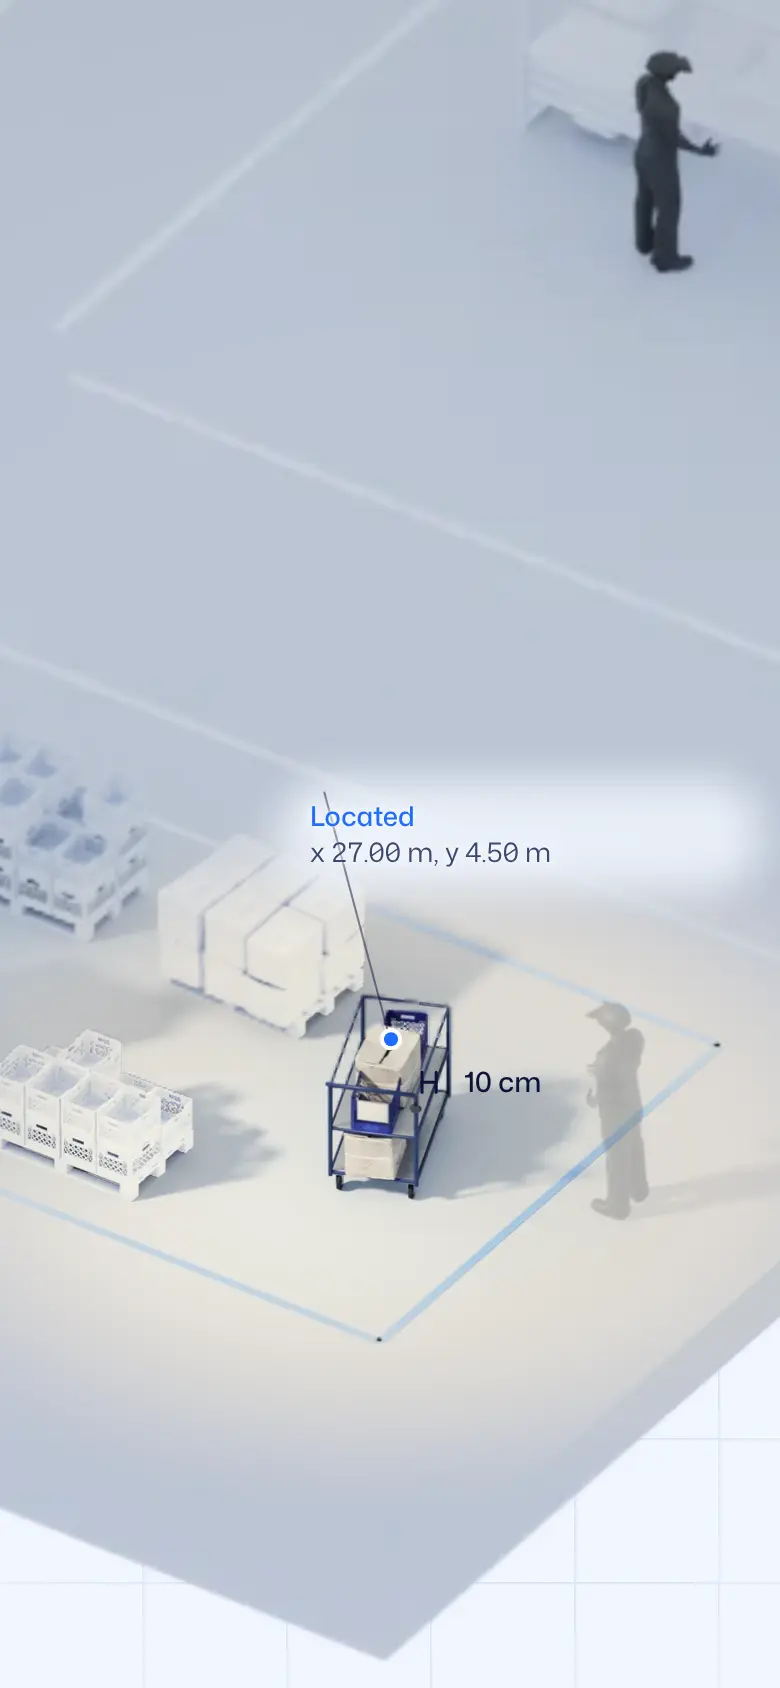
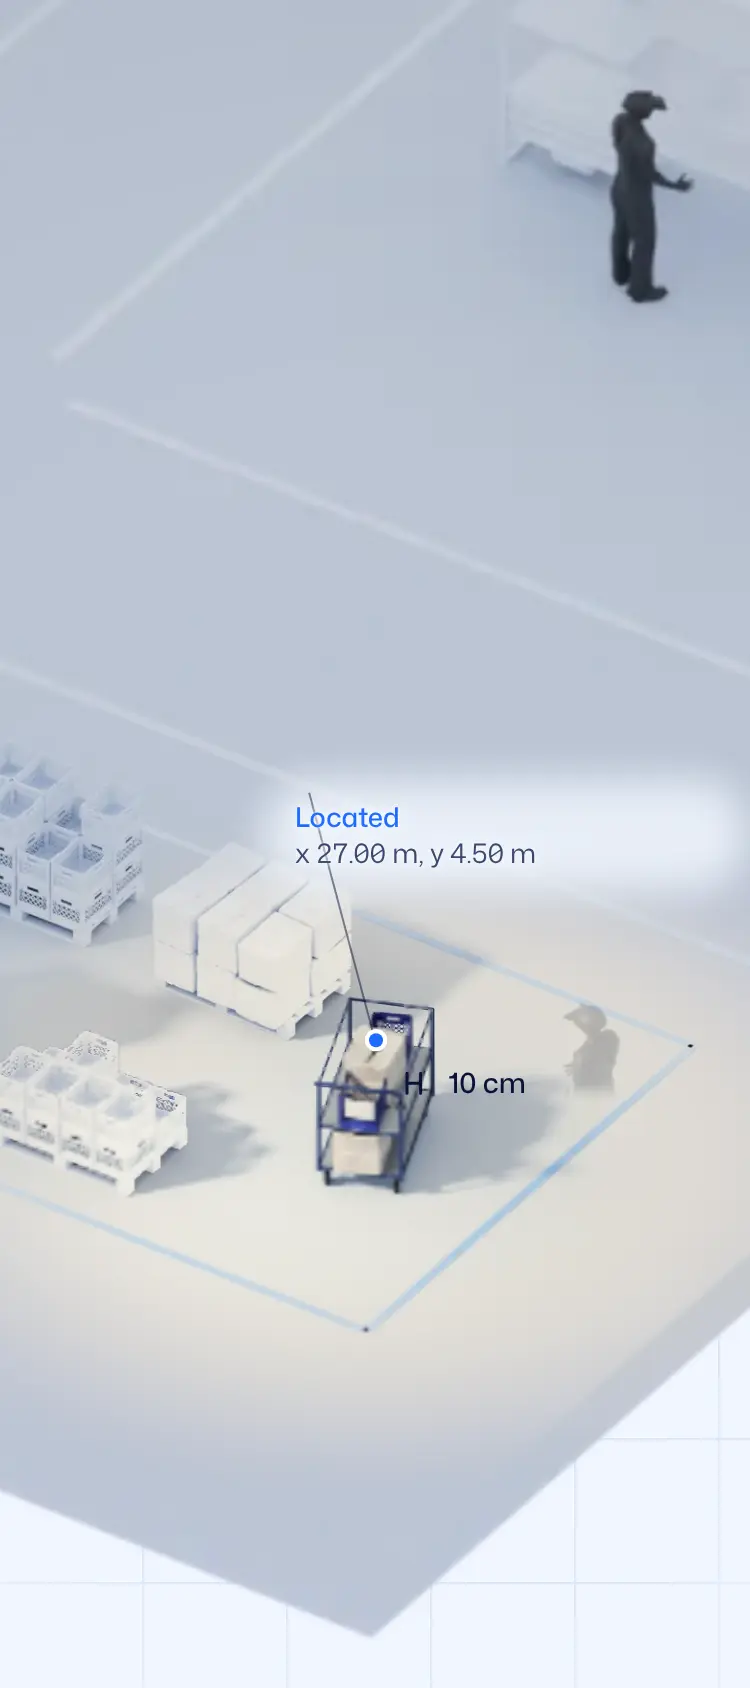
Explainer: a truck that reads from above, and a controlled scroll that never skips a sentence
The docked truck is now a weathered 40 ft container on a skeletal trailer with a cab-over
tractor, standing whole on its own apron; the wide plates are reframed (same pixels per
metre) so it is no longer cut at the edge. Inside the story one wheel turn, swipe or key
glides to the next sentence's resting point and the page holds there; before and after the
story the page scrolls as usual.

Claude-Session: https://claude.ai/code/session_01YEydMJrMXd25Uxd8C1TWVL

diff --git a/studio/v1/js/floor.js b/studio/v1/js/floor.js
@@ -92,7 +92,7 @@
     // During a fast fling (a menu jump, a hard flick) the words step back and return the moment the scroll settles.
     var calm = 1 - seg(Math.abs(textFrame.v || 0), 1.6, 4.5); calm = Math.round(calm * 20) / 20;
     blocks.forEach(function (b, k) {
-      var e = k === 0 ? Math.max(seg(ap, .45, .85), seg(tb, 0, .02)) : seg(tb, k, k + .16), x = k < NB - 1 ? seg(tb, k + .84, k + 1) : 0;
+      var e = k === 0 ? Math.max(seg(ap, .45, .85), seg(tb, 0, .02)) : seg(tb, k, k + .16), x = k < NB - 1 ? seg(tb, k + .9, k + 1) : 0;
       var vis = e > 0 && x < 1, uu = k < i ? 1 : k > i ? 0 : u;
       if (vis !== b.vis) { b.vis = vis; b.el.style.visibility = vis ? 'visible' : 'hidden'; }
       if (!vis) return;
@@ -177,6 +177,56 @@
       e.preventDefault(); var g = +a.getAttribute('data-go'); if (done) { unfold(g); return; } var r = S.getBoundingClientRect(), run = r.height - vh;
       window.scrollTo({ top: window.scrollY + r.top + (EDGE[g] + .012) * run, behavior: 'smooth' });
     });
+  });
+
+  // ---- controlled scroll: inside the story one wheel turn, swipe or key moves exactly one sentence on, at a reading pace.
+  // Each sentence has a resting point where its words, its picture and its sound have all arrived. The page glides there
+  // and holds, so nothing can be skipped or half read. Before the first and after the last resting point the page scrolls as usual.
+  var STOP = [.87, .87, .76, .87, .87, .87, .87, .87, .97], stops = STOP.map(function (v, k) { return EDGE[k] + v * (EDGE[k + 1] - EDGE[k]); });
+  var RM = matchMedia('(prefers-reduced-motion: reduce)').matches, glide = null, lastW = 0, lastA = 0, landT = 0, engaged = false, lastY = window.scrollY;
+  // While the story holds the page, the page itself does not scroll (a long flick from above would otherwise carry straight through it).
+  function lock(on) { if (engaged === on) return; engaged = on; document.documentElement.classList.toggle('flr-lock', on); }
+  function guard() {
+    var y = window.scrollY, dy = y - lastY; lastY = y; if (glide) return; var ok = pinned(), last = stops[stops.length - 1];
+    if (!ok) { lock(false); return; }
+    if (!engaged && dy > 0 && p < stops[0]) { lock(true); glideTo(stops[0]); } else if (!engaged && dy < 0 && p > last + .0015) { lock(true); glideTo(last); }
+  }
+  function pinned() { if (done || SHOT || RM || !S.classList.contains('flr-on')) return false; var r = S.getBoundingClientRect(); return r.top <= 2 && r.bottom >= vh - 2; }
+  function nextStop(dir) {
+    var k;
+    if (dir > 0) { for (k = 0; k < stops.length; k++) if (stops[k] > p + .0015) return stops[k]; return null; }
+    for (k = stops.length - 1; k >= 0; k--) if (stops[k] < p - .0015) return stops[k];
+    return p > .0015 ? 0 : null;
+  }
+  function glideTo(pt) {
+    var r = S.getBoundingClientRect(), run = r.height - vh, y0 = window.scrollY, y1 = Math.round(window.scrollY + r.top + pt * run);
+    var d = 1000 * Math.min(2.1, Math.max(1.05, .8 + Math.abs(tbOf(pt) - tbOf(p)) * .85)), t0 = performance.now(), g = glide = {};
+    (function step(now) {
+      if (glide !== g) return; var k = Math.min(1, (now - t0) / d), e = k < .5 ? 4 * k * k * k : 1 - Math.pow(-2 * k + 2, 3) / 2;
+      window.scrollTo({ top: y0 + (y1 - y0) * e, behavior: 'instant' }); if (k < 1) requestAnimationFrame(step); else { glide = null; landT = performance.now(); }
+    })(t0);
+  }
+  function intent(dir, ev) { var t = nextStop(dir); if (t === null) { lock(false); return false; } lock(true); if (ev) ev.preventDefault(); if (!glide) glideTo(t); return true; }
+  window.addEventListener('wheel', function (e) {
+    if (e.ctrlKey || !pinned()) { lastW = 0; return; }
+    var dy = e.deltaY * (e.deltaMode === 1 ? 16 : e.deltaMode === 2 ? vh : 1), a = Math.abs(dy), now = performance.now(); if (a < 1) return;
+    // a new turn of the wheel, not the tail of the last flick: a pause, or a push harder than the dying tail
+    var fresh = (now - lastW > 200 && a >= 10) || a > lastA * 1.5 + 6; lastW = now; lastA = a; var dir = dy > 0 ? 1 : -1;
+    if (glide || !fresh || now - landT < 140) { if (glide || (engaged && nextStop(dir) !== null)) e.preventDefault(); return; }
+    intent(dir, e);
+  }, { passive: false });
+  var ty = null, tGo = false;
+  window.addEventListener('touchstart', function (e) { ty = e.touches.length === 1 ? e.touches[0].clientY : null; tGo = false; }, { passive: true });
+  window.addEventListener('touchmove', function (e) {
+    if (ty === null || !pinned()) return; var d = ty - e.touches[0].clientY, dir = d > 0 ? 1 : -1;
+    if (glide || tGo) { e.preventDefault(); return; }
+    if (nextStop(dir) === null) return; e.preventDefault();
+    if (Math.abs(d) > 18) { tGo = true; intent(dir); }
+  }, { passive: false });
+  window.addEventListener('keydown', function (e) {
+    if (!pinned() || e.altKey || e.ctrlKey || e.metaKey || /^(INPUT|TEXTAREA|SELECT)$/.test((e.target || {}).tagName || '')) return;
+    var dir = { ArrowDown: 1, PageDown: 1, ' ': e.shiftKey ? -1 : 1, ArrowUp: -1, PageUp: -1 }[e.key]; if (!dir) return;
+    if (glide) { e.preventDefault(); return; } intent(dir, e);
   });
 
   var reB = S.querySelector('.flr-re'); if (reB) reB.addEventListener('click', function () { unfold(0); });
@@ -668,7 +718,7 @@
     kick();
   }
   function kick() { if (!raf && (onScreen || SHOT)) raf = requestAnimationFrame(tick); }
-  function onScroll() { readScroll(); if (near) start(); if (bi < 0) setBeat(beatOf(p)); kick(); }
+  function onScroll() { readScroll(); guard(); if (near) start(); if (bi < 0) setBeat(beatOf(p)); kick(); }
   window.addEventListener('scroll', onScroll, { passive: true });
   window.addEventListener('resize', function () { measure(); onScroll(); });
   document.addEventListener('visibilitychange', function () { snd.gate(); kick(); });

diff --git a/studio/v1/css/floor.css b/studio/v1/css/floor.css
@@ -178,3 +178,5 @@
 @media (max-aspect-ratio:4/5){.flr-on .flr-card{left:50%;top:64%}.flr-on .flr-dim{background:linear-gradient(180deg,rgba(6,10,30,0) 30%,rgba(6,10,30,.74) 54%)}}
 @media (prefers-reduced-motion:reduce){.flr-on .flr-card.go{animation:none}}
 .flr-shot .flr-card{display:none!important}
+
+html.flr-lock{overflow:hidden}html:has(.flr-on){scrollbar-gutter:stable}

diff --git a/extras/explainer-floor/blender/truck2.py b/extras/explainer-floor/blender/truck2.py
@@ -1,0 +1,75 @@
+# The truck at the dock, built to read from above: a 40 ft container on a skeletal trailer, coupled to a cab-over tractor.
+# Container x 0 .. -12.19 (its doors face the dock), tractor to about -16.6. Corrugation runs across the length, as on a real box.
+import bpy, math
+import plant as P
+rad = math.radians
+
+def corrugated(name, base, grime=(.42, .45, .5, 1)):
+    m = bpy.data.materials.get(name)
+    if m: return m
+    m = bpy.data.materials.new(name); m.use_nodes = True; nt = m.node_tree; N = nt.nodes; L = nt.links; b = N['Principled BSDF']
+    tc = N.new('ShaderNodeTexCoord')
+    wv = N.new('ShaderNodeTexWave'); wv.wave_type = 'BANDS'; wv.bands_direction = 'X'; wv.wave_profile = 'SIN'; wv.inputs['Scale'].default_value = 1.12
+    L.new(tc.outputs['Object'], wv.inputs['Vector'])
+    bp = N.new('ShaderNodeBump'); bp.inputs['Strength'].default_value = .55; bp.inputs['Distance'].default_value = .03; L.new(wv.outputs['Fac'], bp.inputs['Height'])
+    # weather: large soft grime, finer streaks running down the sides, a darker band where the roof collects dirt
+    n1 = N.new('ShaderNodeTexNoise'); n1.inputs['Scale'].default_value = .7; n1.inputs['Detail'].default_value = 7; n1.inputs['Roughness'].default_value = .62; L.new(tc.outputs['Object'], n1.inputs['Vector'])
+    mp = N.new('ShaderNodeMapping'); mp.inputs['Scale'].default_value = (6, 6, .35); L.new(tc.outputs['Object'], mp.inputs['Vector'])
+    n2 = N.new('ShaderNodeTexNoise'); n2.inputs['Scale'].default_value = 3; n2.inputs['Detail'].default_value = 4; L.new(mp.outputs['Vector'], n2.inputs['Vector'])
+    g1 = N.new('ShaderNodeMapRange'); g1.inputs['From Min'].default_value = .42; g1.inputs['From Max'].default_value = .72; L.new(n1.outputs['Fac'], g1.inputs['Value'])
+    g2 = N.new('ShaderNodeMapRange'); g2.inputs['From Min'].default_value = .5; g2.inputs['From Max'].default_value = .8; g2.inputs['To Max'].default_value = .55; L.new(n2.outputs['Fac'], g2.inputs['Value'])
+    gs = N.new('ShaderNodeMath'); gs.operation = 'ADD'; gs.use_clamp = True; L.new(g1.outputs['Result'], gs.inputs[0]); L.new(g2.outputs['Result'], gs.inputs[1])
+    gk = N.new('ShaderNodeMath'); gk.operation = 'MULTIPLY'; gk.inputs[1].default_value = .55; L.new(gs.outputs[0], gk.inputs[0])
+    cm = N.new('ShaderNodeMix'); cm.data_type = 'RGBA'; cm.inputs[6].default_value = base; cm.inputs[7].default_value = grime; L.new(gk.outputs[0], cm.inputs['Factor'])
+    # the crests of the corrugation catch a little less dirt
+    cw = N.new('ShaderNodeMix'); cw.data_type = 'RGBA'; cw.blend_type = 'MULTIPLY'; cw.inputs['Factor'].default_value = .1; L.new(cm.outputs[2], cw.inputs[6]); L.new(wv.outputs['Color'], cw.inputs[7])
+    L.new(cw.outputs[2], b.inputs['Base Color'])
+    rr = N.new('ShaderNodeMapRange'); rr.inputs['To Min'].default_value = .38; rr.inputs['To Max'].default_value = .7; L.new(gs.outputs[0], rr.inputs['Value']); L.new(rr.outputs['Result'], b.inputs['Roughness'])
+    L.new(bp.outputs['Normal'], b.inputs['Normal']); b.inputs['Metallic'].default_value = .25
+    return m
+
+def b_truck2():
+    mm = P.M(); g = []; box = P.box; cyl = P.cyl; dk = mm['dark']; galv = mm['galv']
+    LC, WC, HC, DECK = 12.19, 2.44, 2.59, 1.32
+    cont = corrugated('container', (.70, .75, .83, 1))
+    paint = P.worn('cabink', (.035, .06, .17, 1), (.18, .4), 0., 4)          # the tractor in AmIMotion's ink
+    glass = P.mat('glass2', (.01, .012, .016, 1), .06, coat=1.)
+    steel = P.worn('chassis', (.05, .055, .06, 1), (.35, .7), .6, 6)
+    # the box and its frame: corner posts, top and bottom rails, corner castings
+    g.append(box('cont', (LC - .12, WC - .1, HC - .1), (-LC / 2, 0, DECK + HC / 2), cont, .01))
+    for x in (-.06, -LC + .06):
+        for y in (-WC / 2 + .05, WC / 2 - .05):
+            g.append(box('post', (.12, .1, HC), (x, y, DECK + HC / 2), cont, .008))
+            for z in (DECK + .06, DECK + HC - .06): g.append(box('cast', (.18, .16, .12), (x, y, z), steel, .01))
+    for y in (-WC / 2 + .03, WC / 2 - .03):
+        for z in (DECK + .07, DECK + HC - .04): g.append(box('rail', (LC, .07, .09), (-LC / 2, y, z), cont, .006))
+    # doors on the dock end: two leaves and four locking bars
+    for y in (-.6, .6): g.append(box('door', (.03, 1.16, HC - .2), (.005, y, DECK + HC / 2), cont, .006))
+    for y in (-1.0, -.25, .25, 1.0): g.append(cyl('bar', .025, HC - .3, (.035, y, DECK + HC / 2), galv, 'z', 10, 0))
+    # skeletal trailer: two main beams, cross members, gooseneck, underrun, landing legs, three axles
+    for y in (-.48, .48): g.append(box('beam', (LC - .2, .14, .32), (-LC / 2 - .1, y, DECK - .2), steel, .01))
+    for x in [-.4 - k * 1.45 for k in range(9)]: g.append(box('xmem', (.1, 2.3, .12), (x, 0, DECK - .08), steel, .006))
+    g.append(box('goose', (2.6, 1.0, .22), (-LC + 1.0, 0, DECK - .36), steel, .01))
+    g.append(box('underrun', (.12, 2.3, .14), (-.25, 0, .58), steel, .02)); g.append(box('lamps', (.08, 2.36, .1), (-.18, 0, .84), P.mat('lampred', (.5, .03, .02, 1), .3), .01))
+    for y in (-.9, .9): g.append(box('leg', (.12, .12, 1.0), (-9.4, y, .55), steel, .01)); g.append(box('foot', (.3, .3, .04), (-9.4, y, .04), steel, .005))
+    for x in (-1.7, -3.05, -4.4):
+        for y in (-1.02, 1.02):
+            for p_ in P.b_wheel(.52, .32): p_.location = (x, y, .52); g.append(p_)
+    g.append(box('guard', (4.2, 2.48, .04), (-3.05, 0, 1.12), steel, .01))
+    # the tractor: cab-over, air deflector on the roof, mirrors, a fuel tank, the exhaust stack behind the cab
+    CX = -15.45
+    g.append(box('cab', (2.25, 2.46, 2.45), (CX, 0, 2.3), paint, .1, seg=3))
+    g.append(box('deflector', (1.4, 2.16, .5), (CX + .25, 0, 3.74), paint, .12, seg=3, rot=(0, rad(-9), 0)))
+    g.append(box('screen', (.05, 2.2, .92), (CX - 1.13, 0, 2.85), glass, .03)); g.append(box('visor', (.36, 2.3, .06), (CX - 1.12, 0, 3.4), paint, .02))
+    g.append(box('grille', (.04, 1.6, .5), (CX - 1.14, 0, 1.75), steel, .01)); g.append(box('bumper', (.32, 2.48, .42), (CX - 1.12, 0, .72), steel, .05))
+    for y in (-1.38, 1.38):
+        g.append(box('mirror', (.06, .2, .55), (CX - 1.0, y, 2.85), steel, .02)); g.append(box('arm', (.04, .2, .04), (CX - 1.0, y * .93, 3.0), steel, .005))
+        g.append(box('step', (.5, .22, .06), (CX - .4, y * .82, .95), galv, .005))
+    for y in (-1.25, 1.25): g.append(box('sidewin', (1.0, .02, .7), (CX - .3, y, 2.95), glass, .01))
+    g.append(box('frame', (6.4, .9, .3), (-13.3, 0, .95), steel, .02)); g.append(box('fifth', (1.3, 1.1, .12), (-11.55, 0, 1.18), dk, .02))
+    g.append(cyl('tank', .3, 1.2, (-13.62, -1.0, .78), mm['galv'], 'x', 24, .01)); g.append(box('battery', (.7, .5, .5), (-13.62, 1.0, .8), steel, .02))
+    g.append(cyl('stack', .085, 2.3, (-14.25, .95, 2.7), galv, 'z', 16, .004)); g.append(box('catwalk', (.6, 1.6, .05), (-13.9, 0, 1.28), mm['galv'], .005))
+    for x in (-14.95, -12.25, -10.95):
+        for y in (-1.02, 1.02):
+            for p_ in P.b_wheel(.52, .32): p_.location = (x, y, .52); g.append(p_)
+    return P.join(g, 'truck')

diff --git a/extras/explainer-floor/blender/pack3.py b/extras/explainer-floor/blender/pack3.py
@@ -1,0 +1,37 @@
+# Repack only the wide plates (the reframed wide view that holds the whole truck) and update floor.json in place.
+# usage: BAY=out/bay4 pack3.py <site assets dir>
+import sys, os, json, numpy as np
+from PIL import Image
+import OpenEXR
+B = os.environ.get('BAY', '/home/user/x3d/out/bay4'); OUT = sys.argv[1]
+man = json.load(open(f'{OUT}/floor.json'))
+J = {n: json.load(open(f'{B}/{n}_col.json')) for n in ('wide', 'mid', 'close', 'macro')}
+w = J['wide']; P = w['pts']
+man.update(aspect=w['w'] / w['h'], scale=w['scale'], o=P['o'], x=[P['x'][i] - P['o'][i] for i in (0, 1)], y=[P['y'][i] - P['o'][i] for i in (0, 1)], z=[P['z'][i] - P['o'][i] for i in (0, 1)])
+for n in ('mid', 'close', 'macro'):
+    q = J[n]['pts']; a, b = 'o', 'a0'
+    rs = [(P[b][i] - P[a][i]) / (q[b][i] - q[a][i]) for i in (0, 1)]; r0 = [P[a][i] - q[a][i] * rs[i] for i in (0, 1)]
+    man[n] = [round(v, 6) for v in (*r0, *rs)]
+LUTC = np.interp(np.arange(256) / 255., [0, .35, .745, 1], [0, .35, .8, 1])
+def lift(im):
+    a = np.asarray(im).copy(); a[..., :3] = np.round(LUTC[a[..., :3]] * 255).astype(np.uint8); return Image.fromarray(a, 'RGBA')
+SZ = dict(L=4405, P=2506)
+for lay, wd in SZ.items():
+    for st in ('col', 'clay'):
+        im = lift(Image.open(f'{B}/wide_{st}.png').convert('RGBA')); h = round(wd * im.height / im.width)
+        im.resize((wd, h), Image.LANCZOS).save(f'{OUT}/{lay}/wide_{st}.webp', 'WEBP', quality=86 if st == 'col' else 80, alpha_quality=90, method=6, exact=False)
+    f = OpenEXR.File(f'{B}/wide_id.exr'); a = None
+    for cn, c in f.parts[0].channels.items():
+        if cn in ('R', 'RGB', 'RGBA'): a = np.asarray(c.pixels, np.float32)
+    a = a[..., 0] if a.ndim == 3 else a
+    im = Image.fromarray(np.clip(np.round(a * 255), 0, 255).astype(np.uint8), 'L'); im.resize((wd, round(wd * im.height / im.width)), Image.NEAREST).save(f'{OUT}/{lay}/wide_id.png', optimize=True)
+f = OpenEXR.File(f'{B}/wide_d_z.exr'); d = None
+for p in f.parts:
+    for cn, ch in p.channels.items():
+        if 'Depth' in p.header.get('name', '') or cn.endswith('Depth.Z') or cn == 'Z' or 'Depth' in cn: d = np.asarray(ch.pixels, np.float32)
+d = d[..., 0] if d.ndim == 3 else d
+lo, hi = float(d[d < 1e4].min()) - .5, float(d[d < 1e4].max()) + .5; v = np.clip((d - lo) / (hi - lo), 0, 1); v[d >= 1e4] = 1
+u = np.round(v * 65535).astype(np.uint32); rgb = np.zeros((*d.shape, 3), np.uint8); rgb[..., 0] = u >> 8; rgb[..., 1] = u & 255
+Image.fromarray(rgb).save(f'{OUT}/depth.png', optimize=True); man['depth'] = [round(lo, 3), round(hi, 3)]
+json.dump(man, open(f'{OUT}/floor.json', 'w'), separators=(',', ':'))
+os.system(f'ls -la {OUT}/L/wide_* {OUT}/P/wide_* {OUT}/depth.png')

diff --git a/extras/explainer-floor/blender/bay3.py b/extras/explainer-floor/blender/bay3.py
@@ -40,7 +40,7 @@ edge = P.mat('slabedge', (.42, .49, .66, 1), .7)
 slab = P.box('slab', (BX, BY, .5), (BX / 2, BY / 2, -.25), fm, .02); slab.data.materials.append(edge)
 for p in slab.data.polygons:
     if abs(p.normal.z) < .5: p.material_index = 1
-apron = P.box('apron', (9, 7, .5), (-4.5, 10, -.25), fm, .02); apron.data.materials.append(edge)
+apron = P.box('apron', (18.6, 6.4, .5), (-9.3, 10, -.25), fm, .02); apron.data.materials.append(edge)   # the truck stands on its own apron, whole
 for p in apron.data.polygons:
     if abs(p.normal.z) < .5: p.material_index = 1
 paint = mm['paint']; white = P.mat('linewhite', (.9, .92, .97, 1), .6)
@@ -59,7 +59,10 @@ P.box('wallN', (BX, .22, 1.3), (BX / 2, BY - .11, .65), wallm, .01)
 P.box('wallW1', (.22, 7.3, 1.3), (.11, 3.65, .65), wallm, .01); P.box('wallW2', (.22, 7.3, 1.3), (.11, BY - 3.65, .65), wallm, .01)
 # the dock door frame and the truck backed up to it
 P.box('doorL', (.3, .3, 4.2), (.15, 7.45, 2.1), mm['yellow'], .01); P.box('doorR', (.3, .3, 4.2), (.15, 12.55, 2.1), mm['yellow'], .01); P.box('doorT', (.3, 5.4, .35), (.15, 10, 4.2), mm['dark'], .01)
+import truck2; P.b_truck = truck2.b_truck2   # the truck that reads from above
 P.truck(0., 10.)
+for x0, x1 in ((-.6, -17.8),):
+    for yy in (8.2, 11.8): line(x0, yy, x1, yy, .1, white)   # the lane the truck reversed along
 # columns with the real anchors
 ANCH = []
 for x, y in ((6., 13.), (16.5, 2.2), (25.5, 13.)):

diff --git a/extras/explainer-floor/README.md b/extras/explainer-floor/README.md
@@ -41,3 +41,9 @@ The section closes on the three layers: tags on the floor, anchors above, AmIHub
 
 - Lost stands under a flat sky: `blender/bay3.py` renders the unlocated (clay) plates with the sun off (`renderall3.sh`). The located plates keep the sun. In `floor.js` sunlight opens around the first located trolley and then crosses the floor (`st.sun`, `uSun`), so shadows and colour arrive with location. No extra pictures are loaded and the shader does one more distance test per pixel.
 - Signals follow the brochure's three steps: the tag sends a pulse a few nanoseconds wide when it moves; every anchor in range records the arrival time and the direction; AmIHub turns timing, direction and the map into a position. Lines leave the tag at one speed, so the nearest anchor is reached first. The moving pulse is drawn to scale (3 ns is about 0.9 m). Arrival times are the true 3D distances divided by the speed of light.
+
+## Round 5: the truck, and a story that moves one sentence at a time
+
+- The truck reads from above: a 40 ft container (corrugation across its length, weathered roof) on a skeletal trailer, coupled to a cab-over tractor in AmIMotion's ink, standing whole on its own apron (`blender/truck2.py`). The wide plates are framed larger (`SCALE=52`, 4405 px) at the same pixels per metre, so nothing is cut at the edge (`renderall4.sh`, then `pack3.py` repacks only the wide plates and updates `floor.json`).
+- Controlled scroll (`floor.js`, "controlled scroll"): inside the story one wheel turn, swipe or key glides to the next resting point, where that sentence's words, picture and sound have all arrived. The page is held while the story runs, so a long flick cannot carry past a sentence. Before the first and after the last resting point the page scrolls as usual. Off for reduced motion.
+- Words, picture, sound and the phone's vibration all follow the one scroll value.
